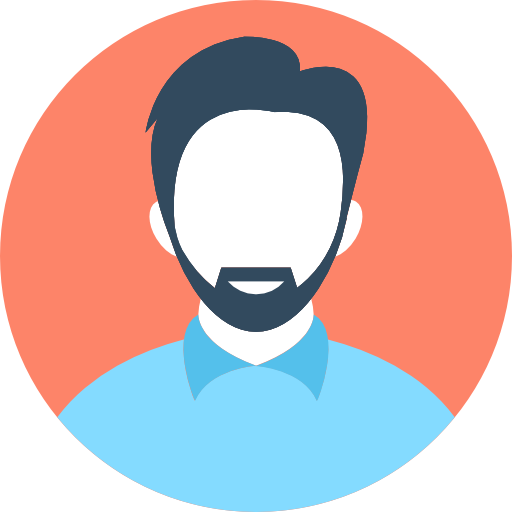
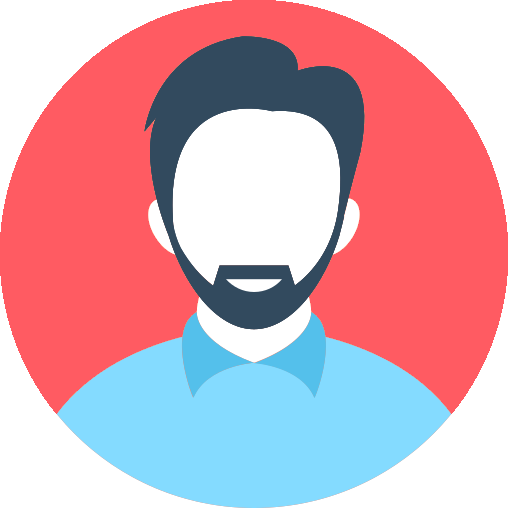
Welcome images added

diff --git a/src/app/welcome/IamParamedic.js b/src/app/welcome/IamParamedic.js
@@ -1,5 +1,5 @@
 import React, { Component } from 'react';
-import { Image } from 'react-native';
+import { Image, View } from 'react-native';
 import CommonButtons from './CommonButtons';
 import { Block, Text, Button as GaButton, theme } from 'galio-framework';
 
@@ -8,10 +8,12 @@ class IamParamedic extends Component {
     return (
       <Block flex style={{ backgroundColor: 'white' }}>
         <Block center style={{ position: 'absolute', top: 30 }}>
-          <Image
-            style={styles.image}
-            source={require('../../assets/imgs/ancient_egypt.jpg')}
-          />
+          <View style={styles.imageWrapper}>
+            <Image
+              style={styles.image}
+              source={require('../../assets/imgs/paramedic.png')}
+            />
+          </View>
           <Text style={{ fontSize: 20, fontWeight: '700' }}>Paramedic</Text>
           <Text style={styles.descriptionText}>
             Lorem Ipsum is simply dummy text of the printing and typesetting
@@ -28,10 +30,22 @@ class IamParamedic extends Component {
 
 const styles = {
   image: {
+    width: 170,
+    height: 170,
+    marginTop: 30,
+    marginLeft: 30,
+    marginRight: 30
+  },
+  imageWrapper: {
+    backgroundColor: '#FF5B62',
+    shadowColor: '#000',
+    shadowOffset: { width: 0, height: 2 },
+    shadowOpacity: 0.8,
+    shadowRadius: 2,
+    elevation: 5,
     width: 200,
     height: 200,
-    borderRadius: 200 / 2,
-    marginBottom: 30
+    borderRadius: 200 / 2
   },
   descriptionText: {
     fontSize: 16,

diff --git a/src/app/welcome/IamAmbulance.js b/src/app/welcome/IamAmbulance.js
@@ -1,9 +1,10 @@
 import React, { Component } from 'react';
-import { Image, View } from 'react-native';
+import { Image } from 'react-native';
 import { Button } from '../../components';
 import { Block, Text, Button as GaButton, theme } from 'galio-framework';
 import { Dimensions } from 'react-native';
 import { Actions } from 'react-native-router-flux';
+import { argonTheme } from '../../constants';
 
 const { width, height } = Dimensions.get('screen');
 
@@ -14,7 +15,7 @@ class IamAmbulance extends Component {
         <Block center style={{ position: 'absolute', top: 30 }}>
           <Image
             style={styles.image}
-            source={require('../../assets/imgs/ancient_egypt.jpg')}
+            source={require('../../assets/imgs/ambulance.png')}
           />
           <Text style={{ fontSize: 20, fontWeight: '700' }}>Ambulance</Text>
           <Text style={styles.descriptionText}>
@@ -44,10 +45,16 @@ class IamAmbulance extends Component {
 
 const styles = {
   image: {
-    width: 200,
-    height: 200,
-    borderRadius: 200 / 2,
-    marginBottom: 30
+    width: 300,
+    height: 300,
+    marginTop: 30,
+    marginLeft: 30,
+    marginRight: 30,
+    shadowColor: '#000',
+    shadowOffset: { width: 0, height: 2 },
+    shadowOpacity: 0.8,
+    shadowRadius: 2,
+    elevation: 5
   },
   button: {
     marginBottom: theme.SIZES.BASE,

diff --git a/src/Router.js b/src/Router.js
@@ -28,7 +28,7 @@ class RouterComponent extends Component {
         }}
         tintColor={argonTheme.COLORS.APP}
       >
-        <Scene key="root" hideNavBar>
+        <Scene key="root" hideNavBar initial>
           <Scene key="welcome" headerLayoutPreset="center">
             <Scene key="whoRU" component={WhoAmI} title="Nabd" initial />
             <Scene key="iUser" component={IamUser} title="User" />
@@ -48,7 +48,7 @@ class RouterComponent extends Component {
             <Scene key="verifySignup" component={VerifySignup} title="Verify" />
           </Scene>
 
-          <Scene key="home" headerLayoutPreset="center" initial>
+          <Scene key="home" headerLayoutPreset="center">
             <Scene
               key="userAndDoctorHome"
               component={UserAndDoctorHome}

diff --git a/src/app/welcome/IamDoctor.js b/src/app/welcome/IamDoctor.js
@@ -2,6 +2,7 @@ import React, { Component } from 'react';
 import { Image } from 'react-native';
 import CommonButtons from './CommonButtons';
 import { Block, Text, Button as GaButton, theme } from 'galio-framework';
+import { argonTheme } from '../../constants';
 
 class IamDoctor extends Component {
   render() {
@@ -10,7 +11,7 @@ class IamDoctor extends Component {
         <Block center style={{ position: 'absolute', top: 30 }}>
           <Image
             style={styles.image}
-            source={require('../../assets/imgs/ancient_egypt.jpg')}
+            source={require('../../assets/imgs/doctor.png')}
           />
           <Text style={{ fontSize: 20, fontWeight: '700' }}>Doctor</Text>
           <Text style={styles.descriptionText}>

diff --git a/src/app/welcome/IamUser.js b/src/app/welcome/IamUser.js
@@ -10,7 +10,7 @@ class IamUser extends Component {
         <Block center style={{ position: 'absolute', top: 30 }}>
           <Image
             style={styles.image}
-            source={require('../../assets/imgs/ancient_egypt.jpg')}
+            source={require('../../assets/imgs/user.png')}
           />
           <Text style={{ fontSize: 20, fontWeight: '700' }}>User</Text>
           <Text style={styles.descriptionText}>

diff --git a/src/app/welcome/WhoAmI.js b/src/app/welcome/WhoAmI.js
@@ -107,7 +107,7 @@ class WhoAmI extends Component {
           <Block center>
             <Image
               style={styles.image}
-              source={require('../../assets/imgs/ancient_egypt.jpg')}
+              source={require('../../assets/imgs/team.png')}
             />
           </Block>
           {/* <Block center style={{ marginBottom: 10 }}>
